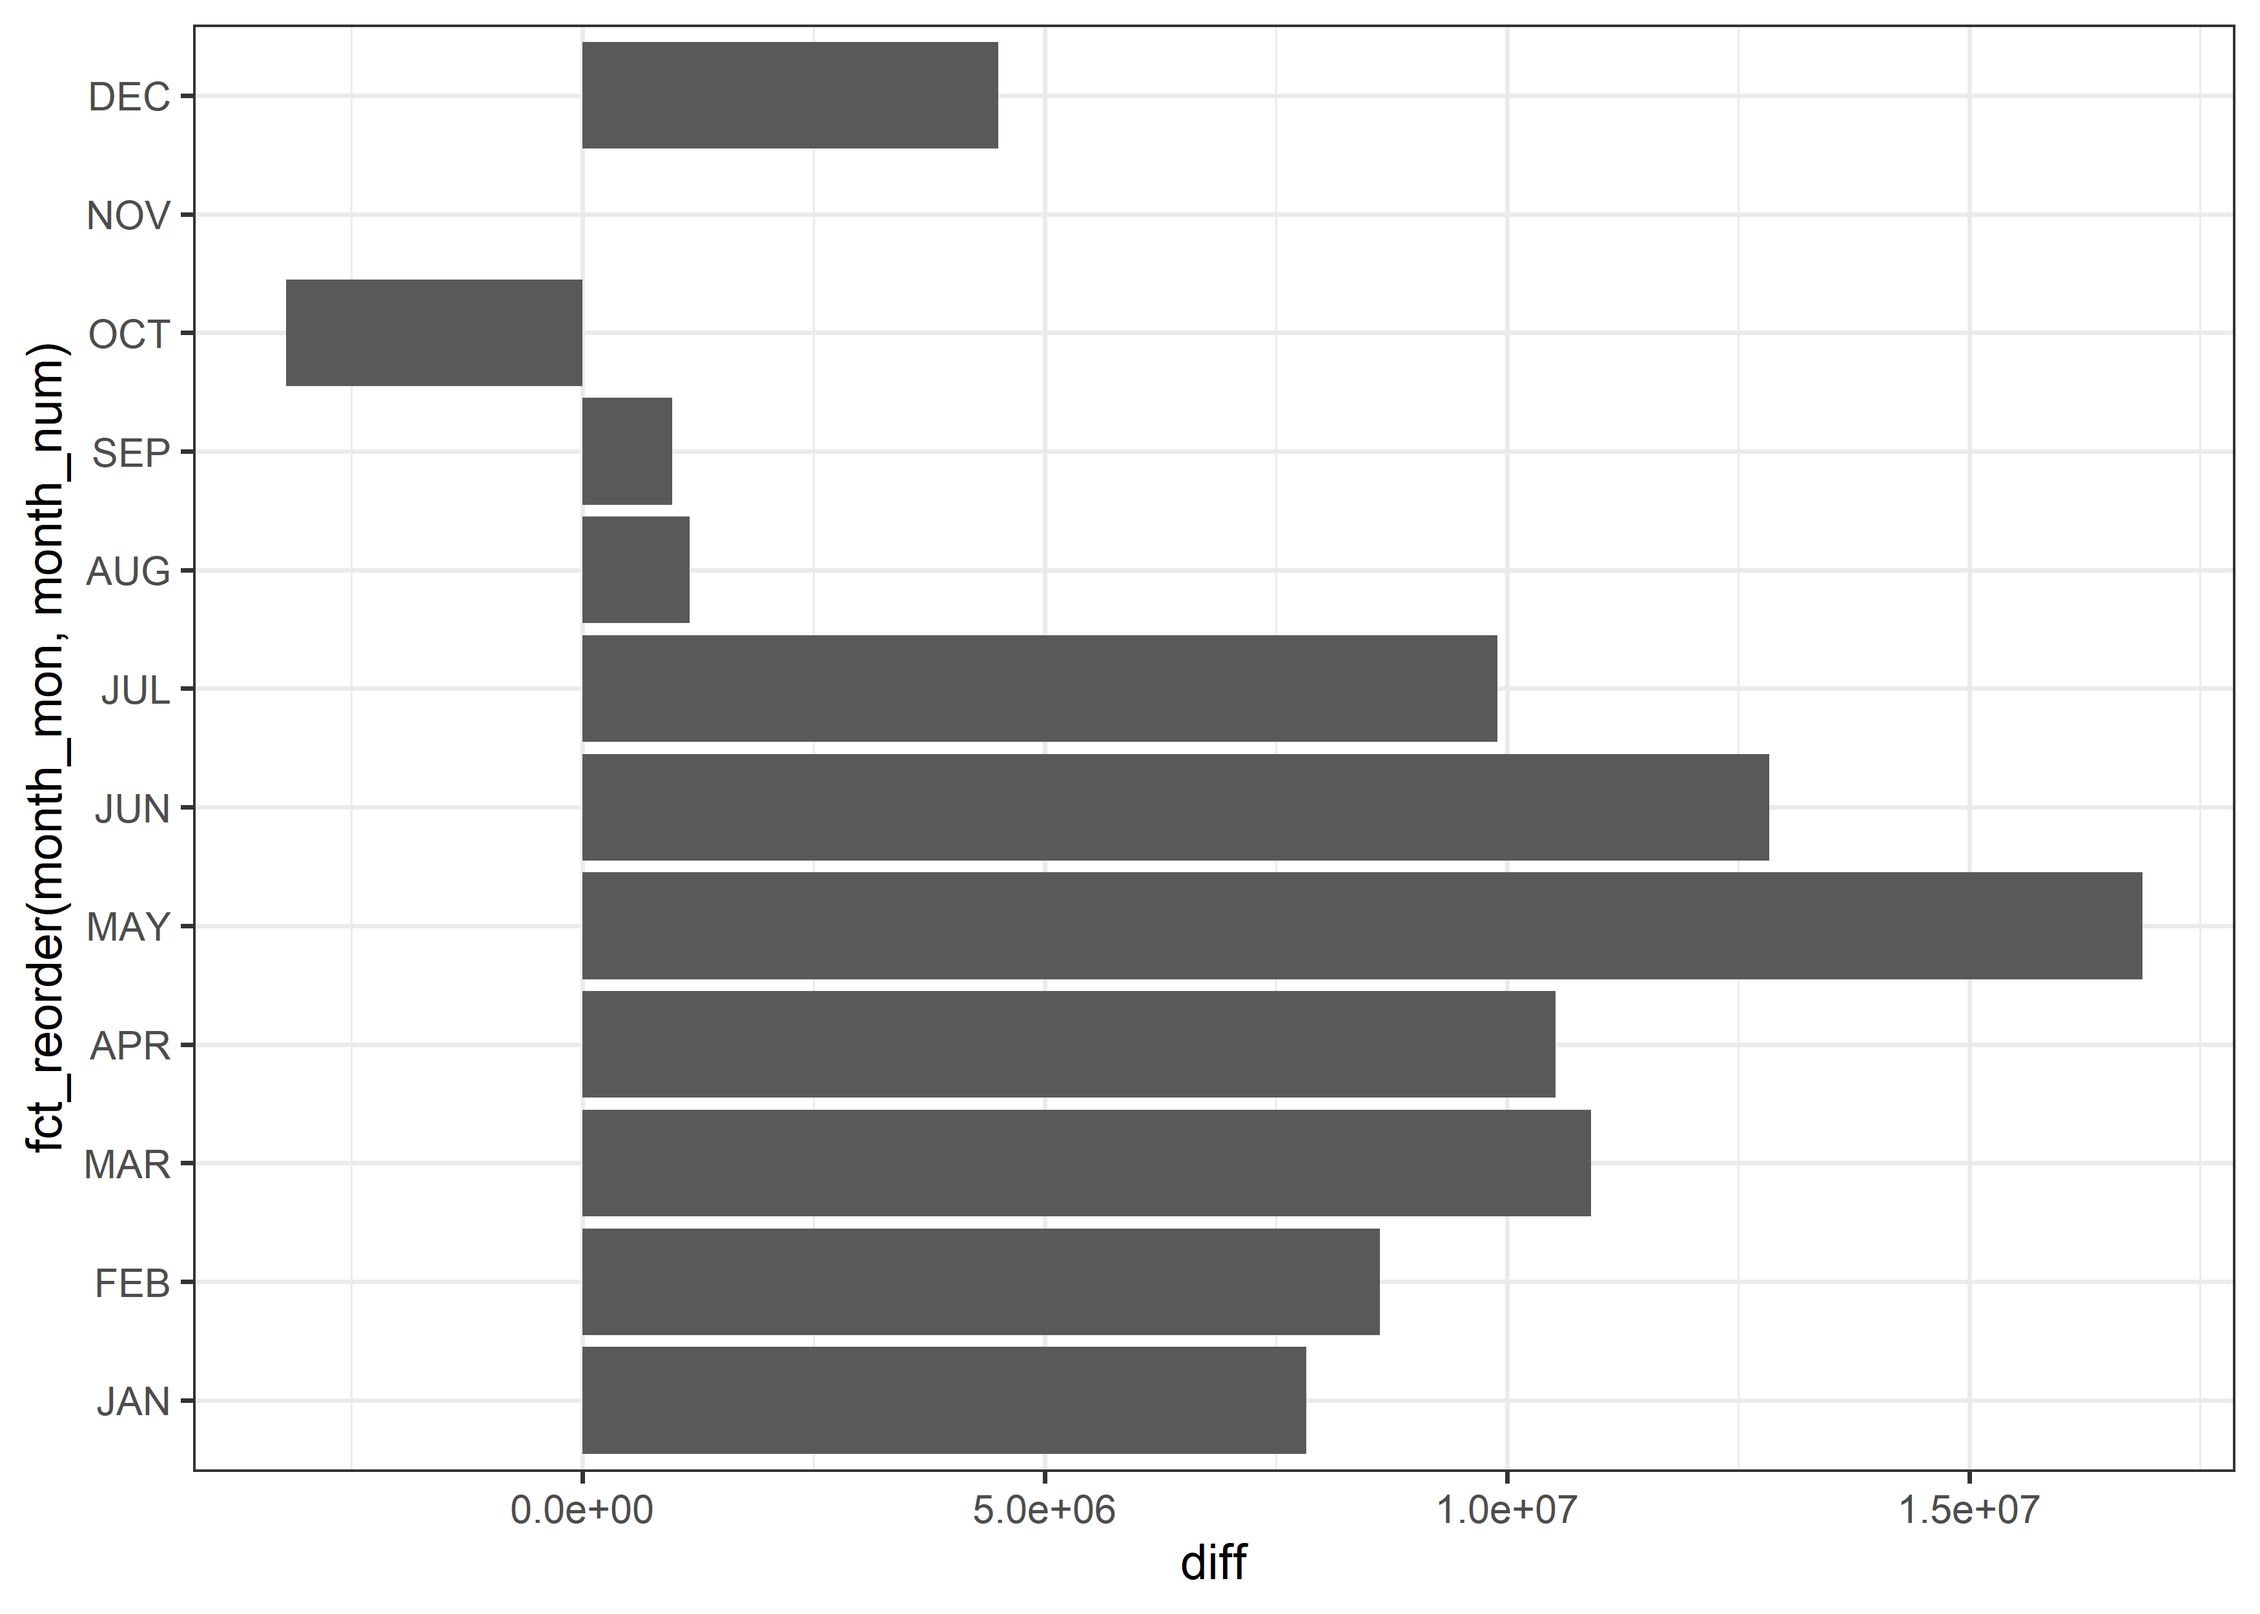
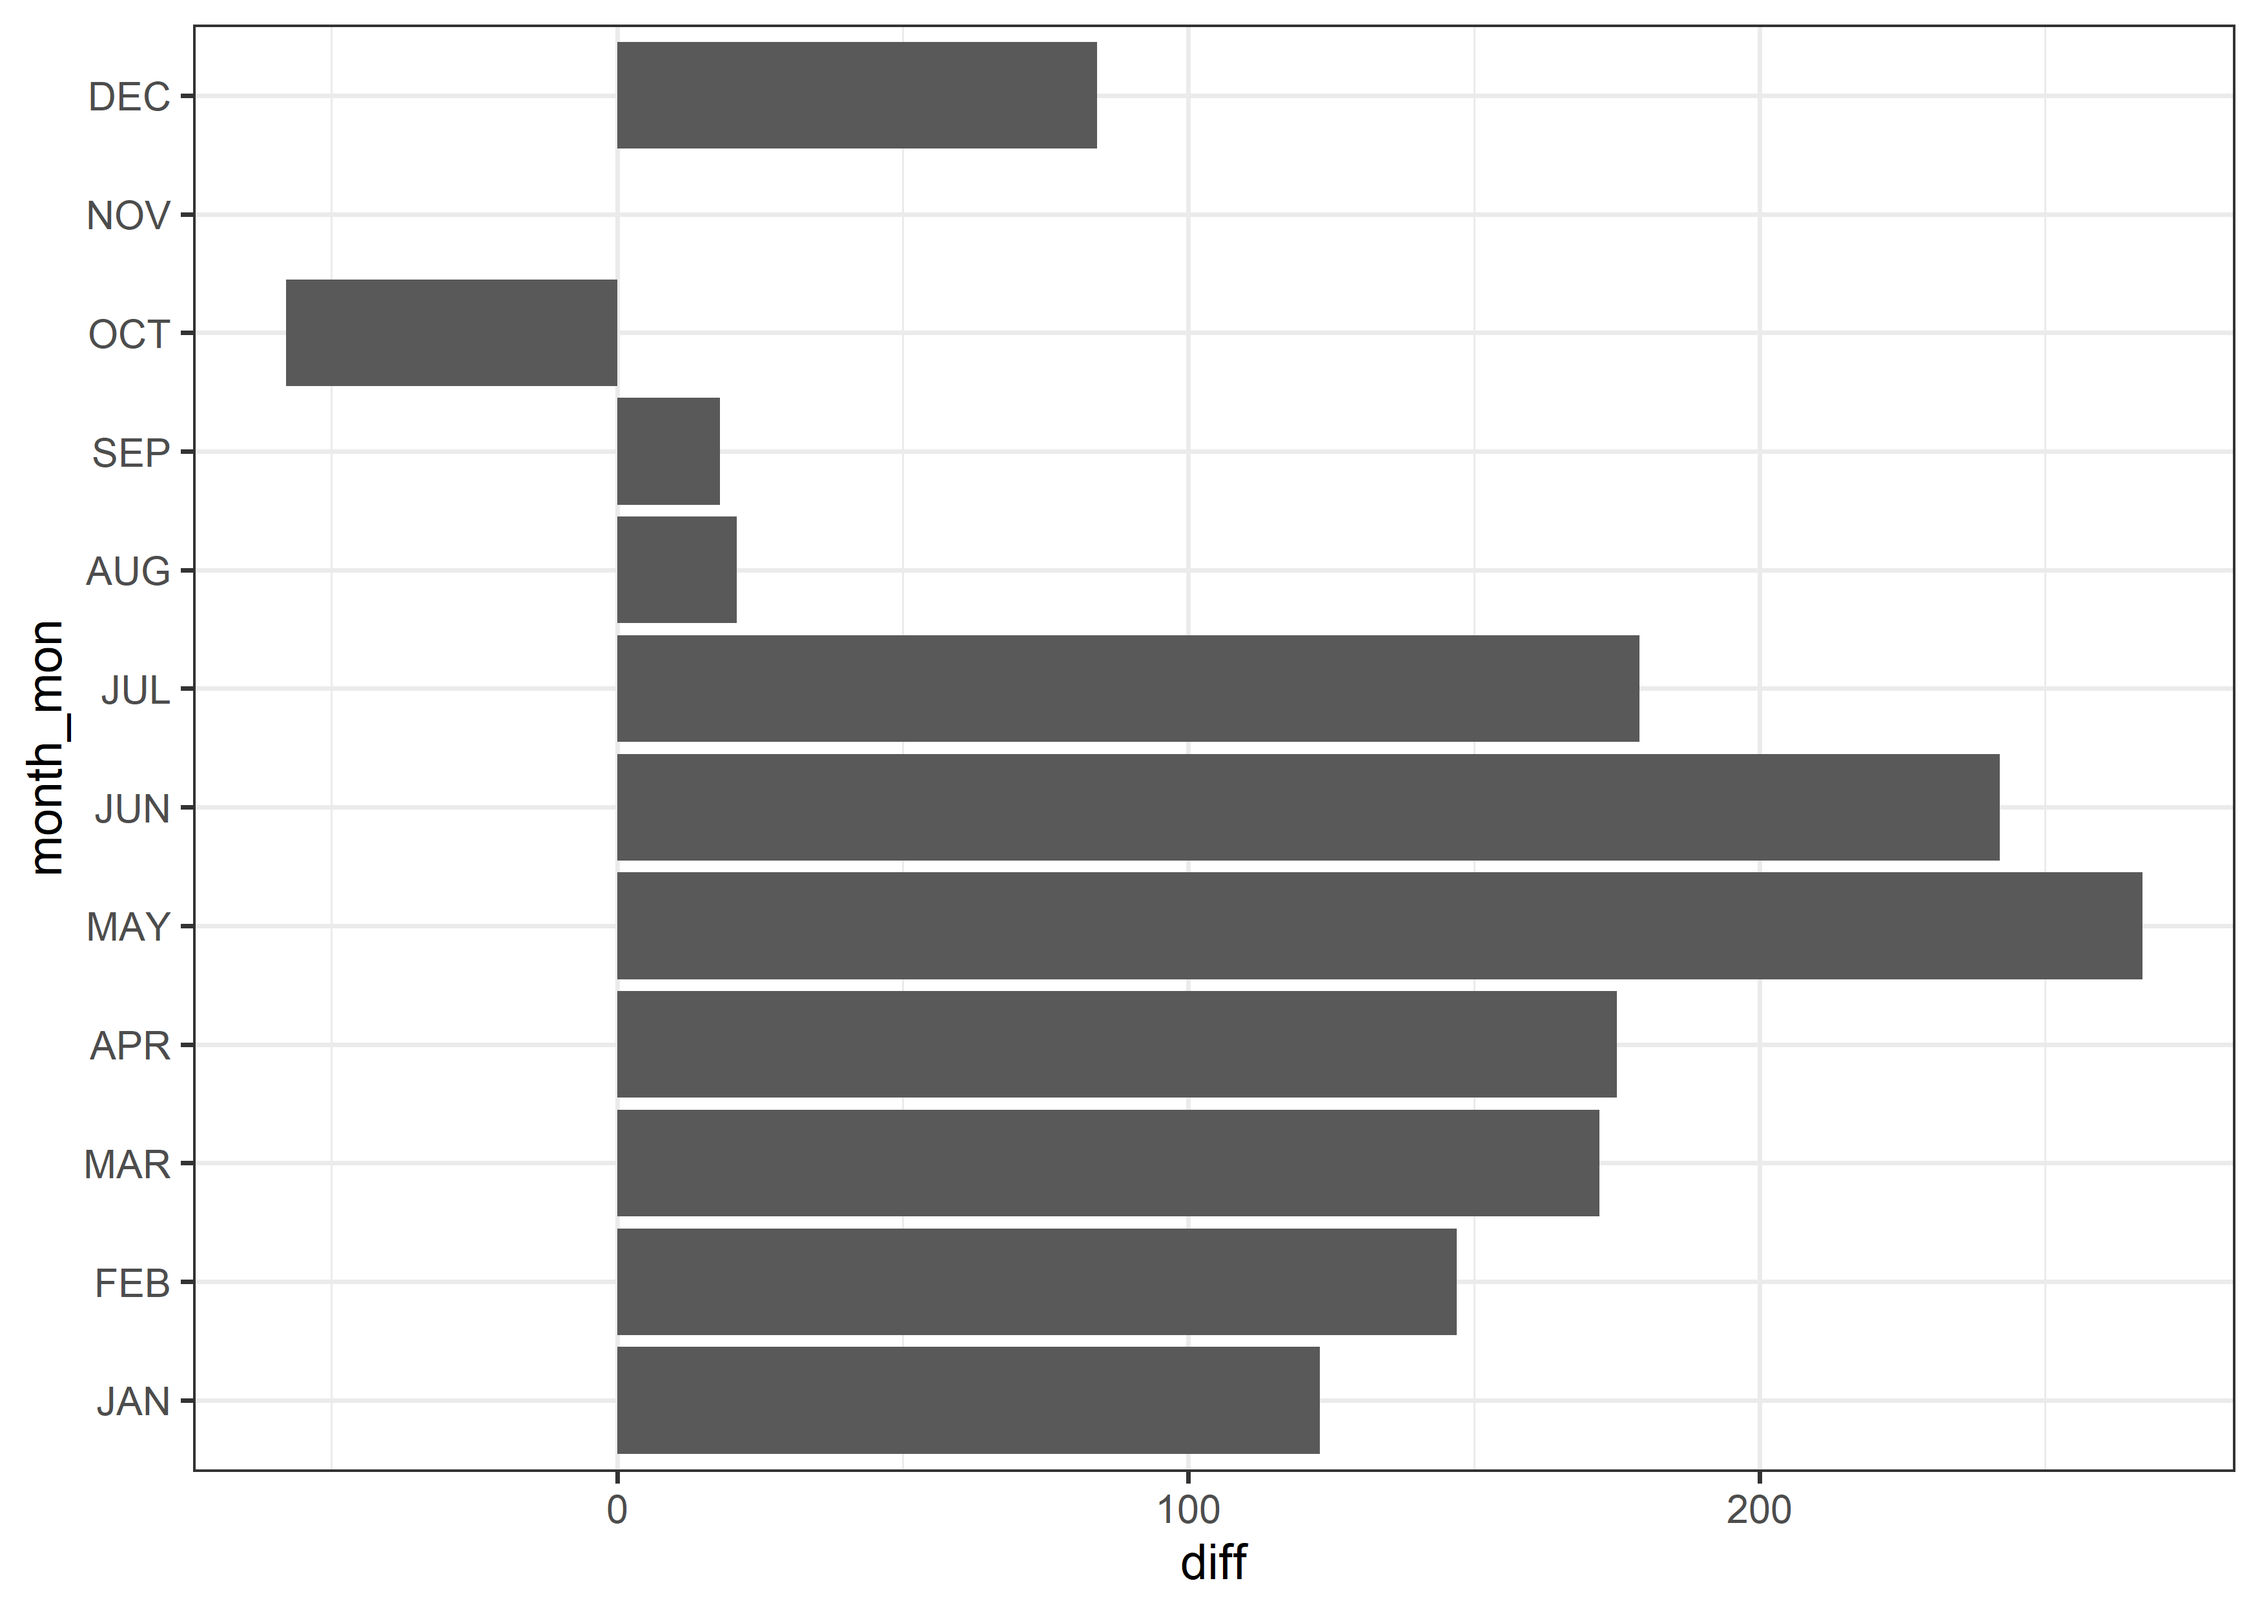
removed left_join

diff --git a/07-12-22/European-Flights.md b/07-12-22/European-Flights.md
@@ -72,12 +72,10 @@ flights %>%
 ``` r
 flights %>% 
   filter(state_name == "Greece") %>% 
+  mutate(month_mon = fct_reorder(month_mon, month_num)) %>% 
   group_by(month_mon) %>% 
   summarize(diff = sum(flt_arr_1) - sum(flt_dep_1)) %>% 
-  left_join(flights %>% select(contains("month"))) %>% 
-  ggplot(aes(diff, fct_reorder(month_mon, month_num))) + geom_col()
+  ggplot(aes(diff, month_mon)) + geom_col()
 ```
-
-    ## Joining, by = "month_mon"
 
 ![](European-Flights_files/figure-gfm/unnamed-chunk-4-1.png)<!-- -->
